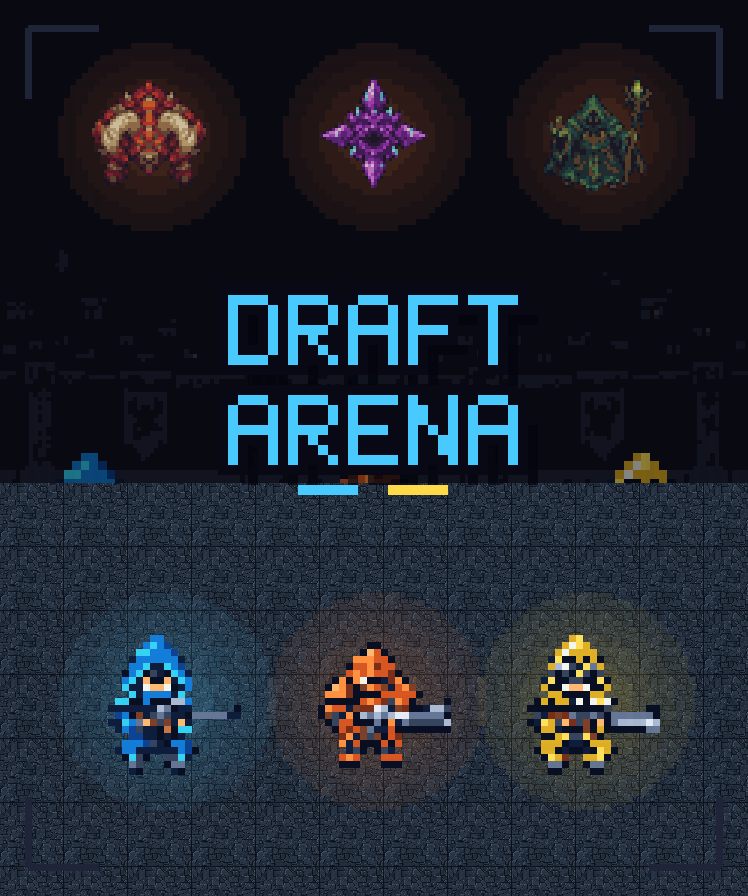
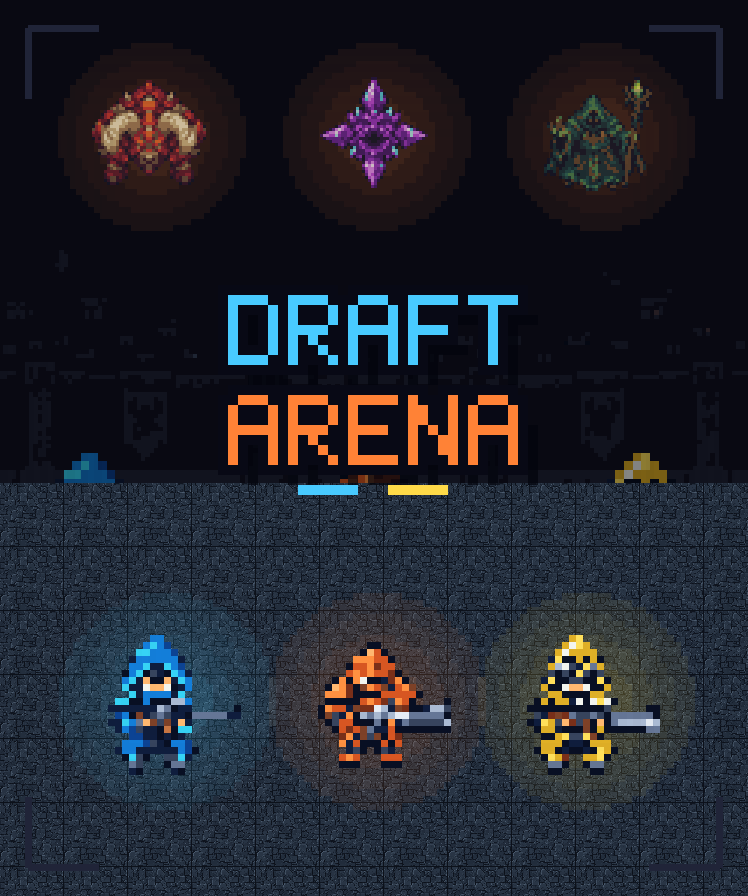
fix: address M3-B store art review

Changed region(s): [[0.3075, 0.4375, 0.7072, 0.5312]]

diff --git a/tools_build_store_assets.py b/tools_build_store_assets.py
@@ -4,6 +4,9 @@
 The script deliberately creates no new gameplay art. It recomposes the existing
 menu key art, character sprites, bosses, and floor tile into the current Steam
 store and library dimensions using nearest-neighbour scaling only.
+
+Install the pinned tool dependency first:
+    python -m pip install -r requirements-tools.txt
 """
 
 from __future__ import annotations
@@ -104,7 +107,7 @@ def glyph_pixels(lines: Iterable[str]) -> tuple[set[tuple[int, int]], dict[tuple
                 cursor += 3
                 word_index += 1
                 continue
-            color = CYAN if word_index == 0 else ORANGE
+            color = CYAN if line_index == 0 and word_index == 0 else ORANGE
             for y, row in enumerate(GLYPHS[char]):
                 for x, bit in enumerate(row):
                     if bit == "1":

diff --git a/PROGRESS.md b/PROGRESS.md
@@ -3,7 +3,8 @@
 ## 2026-09-26（第三十次收工：M3-B 商店主视觉）
 - 复用冻结的 12 张正式候选美术，生成 4 张 Store Capsule 与 4 张 Library 素材；未新增角色、动画、图标或玩法资产。
 - 尺寸按当日 Steamworks 模板复核；Library Hero 为无字单场景，Library Logo 为透明底，基础胶囊只含游戏美术与游戏名。
-- 新增可重复生成脚本和中英文短描述、3 条核心卖点、AI 内容披露记录；8 张 PNG 尺寸与透明通道检查通过。
+- 新增可重复生成脚本、固定 Pillow 依赖和中英文商店文案；审核纠正可玩武器路线数量与竖版双色标题，8 张 PNG 确定性检查通过。
+- `store/.gdignore` 将营销原图排除在 Godot 导入与 Windows 游戏包之外，仓库保留原图但不增加发布包体。
 - M3-B 剩余仅为至少 5 张真实 1920×1080 玩法截图和 30–45 秒玩法优先 trailer，美术资产类型继续冻结。
 
 ## 2026-09-26（第二十九次收工：PR #9 合并前复核）

diff --git a/store/STORE_COPY.md b/store/STORE_COPY.md
@@ -9,7 +9,7 @@ Survive 30-second waves with real-time movement and auto-attacks, then draft one
 ## 3 条核心卖点
 
 1. **30 秒一波，马上进入战斗**：移动和聚怪决定生存，自动攻击让注意力留给走位与构筑。
-2. **升级即三选一**：围绕 6 条武器路线与 21 张被动组成一局牌组，让成型构筑真正改变战局。
+2. **升级即三选一**：围绕 3 条角色专属武器路线与 21 张被动组成一局牌组，让成型构筑真正改变战局。
 3. **短局也有长期推进**：3 名角色、3 个区域和 3 类首领，失败所得可继续解锁牌池、强化角色与开局选项。
 
 ## 已生成素材

diff --git a/README.md b/README.md
@@ -39,3 +39,10 @@ python tools_setup_godot.py        # 下载引擎到 .tools/godot/
 ## 自动构建
 
 push 到 main 自动打包 Windows exe（GitHub Actions，产物在 Actions 页 Artifacts）。
+
+## 重建商店素材
+
+```bash
+python -m pip install -r requirements-tools.txt
+python tools_build_store_assets.py
+```
